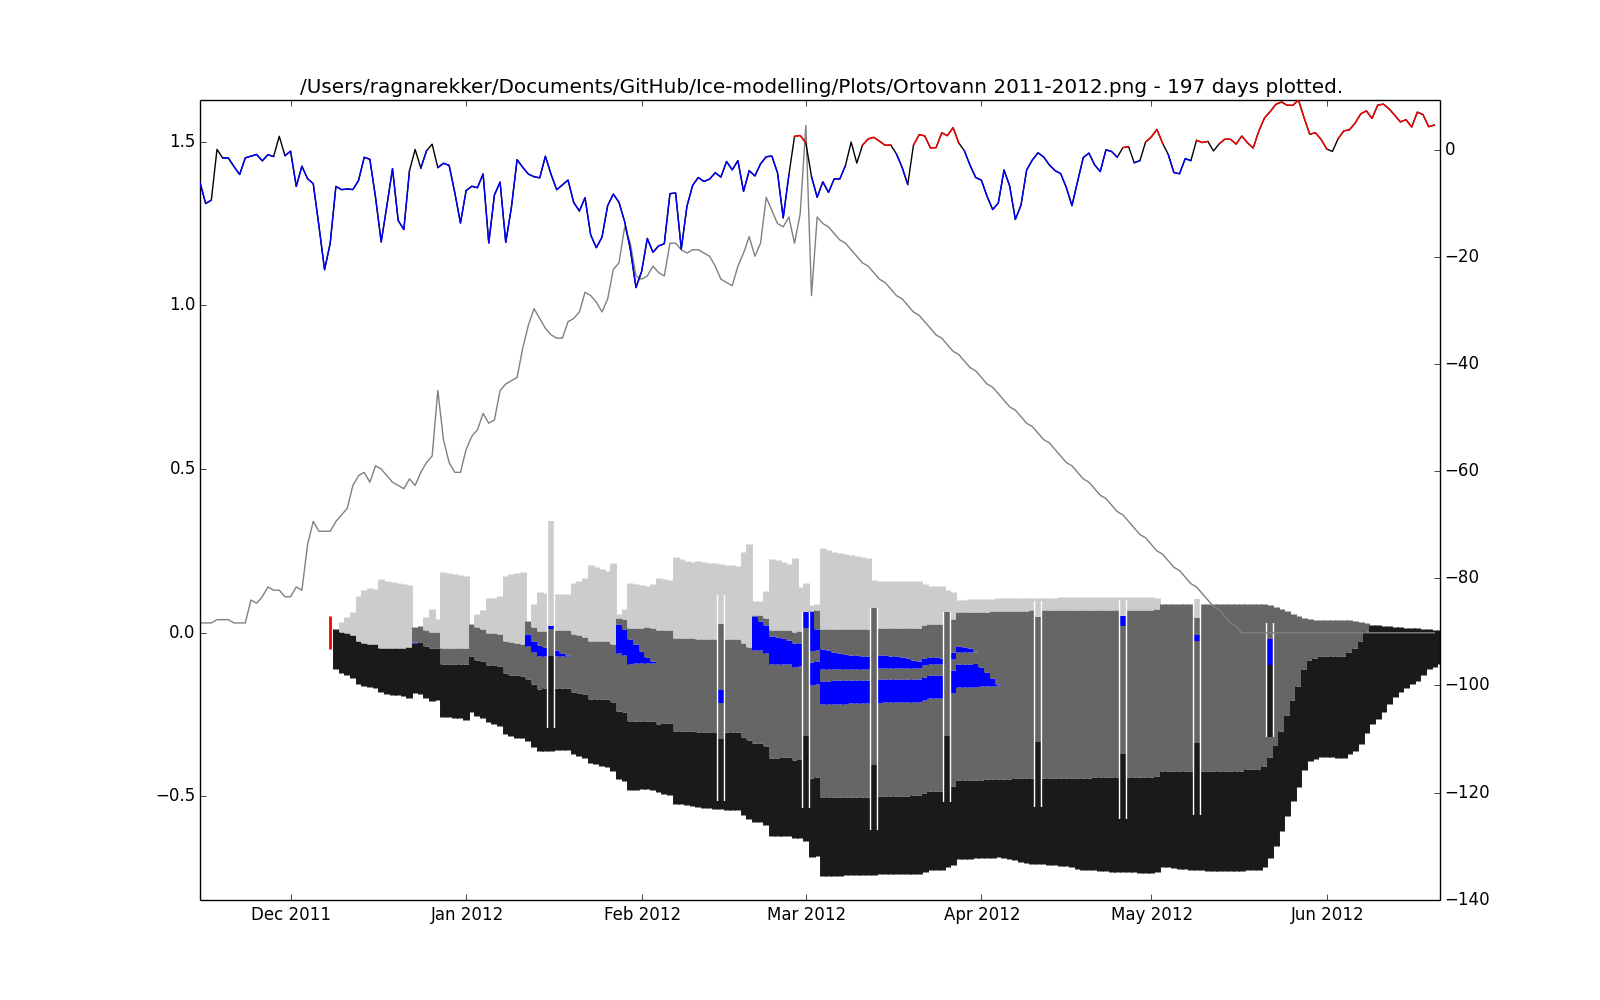
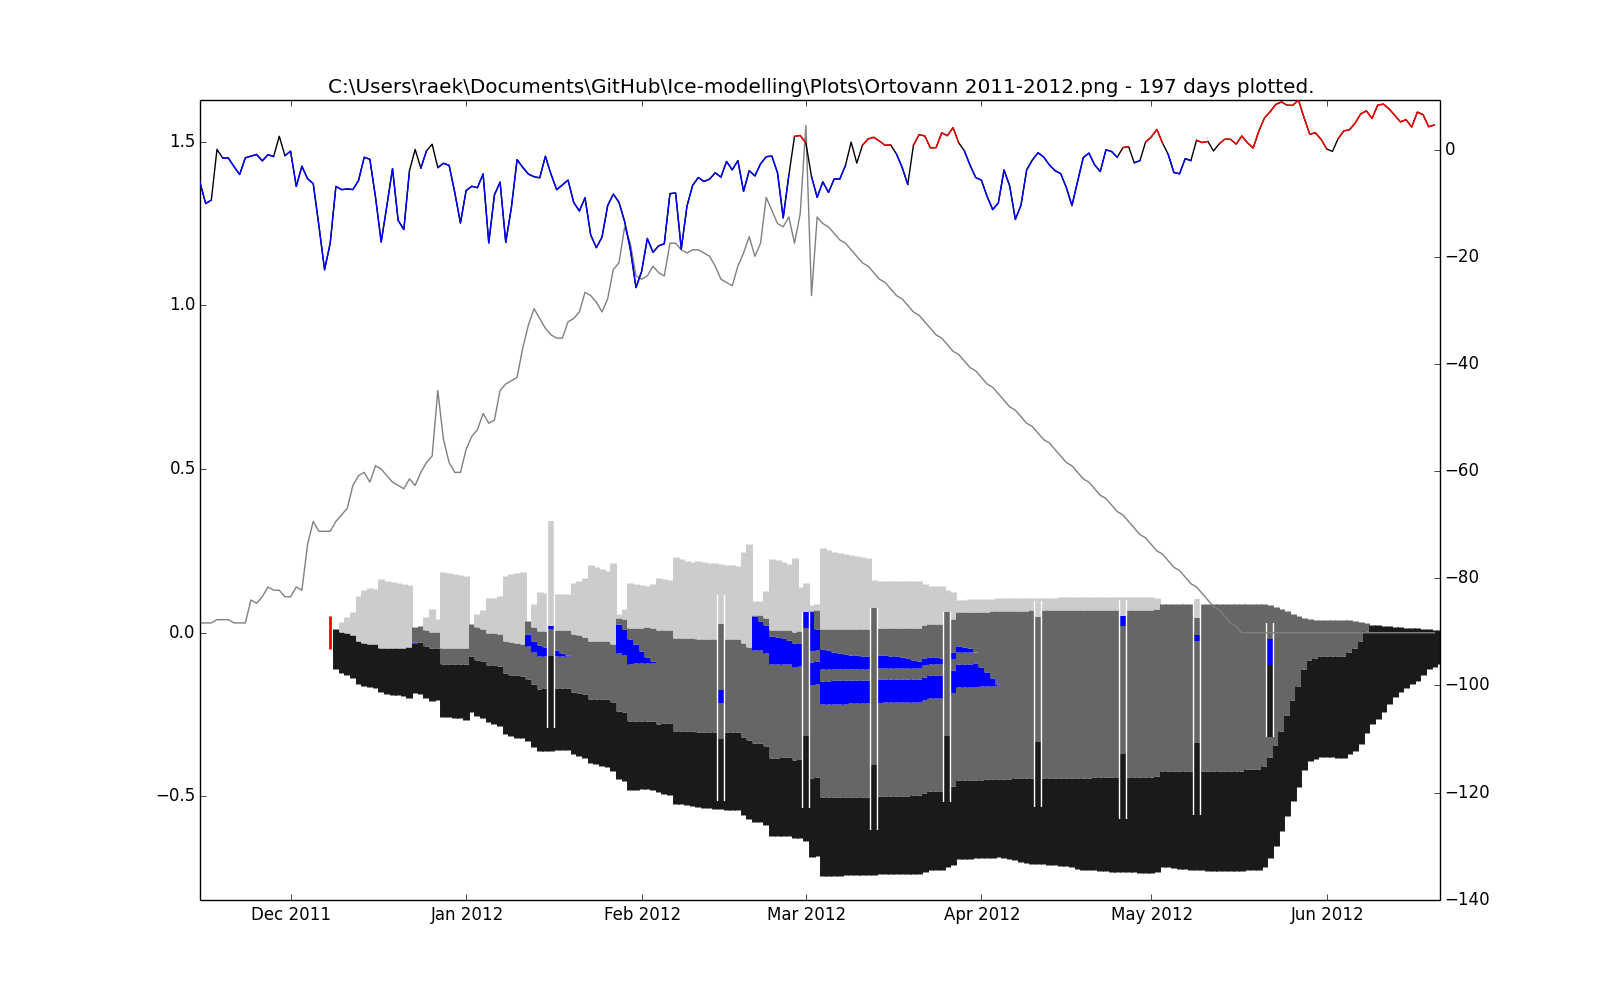
Testing files after major cleanup.

Changed region(s): [[0.1875, 0.062, 0.8438, 0.093]]

diff --git a/runIceThicknessCalc.py b/runIceThicknessCalc.py
@@ -8,11 +8,11 @@ import iceColumn
 import copy
 from TimeseriesIO import getMetData, readWeather, makeSnowChangeFromSnowTotal, plotIcecover, importColumns
 
-#plot_folder = "C:\\Users\\raek\\Documents\\GitHub\\Ice-modelling\\Plots\\"
-#data_path = "C:\\Users\\raek\\Documents\\GitHub\\Ice-modelling\\TimeseriesData\\"
+plot_folder = "C:\\Users\\raek\\Documents\\GitHub\\Ice-modelling\\Plots\\"
+data_path = "C:\\Users\\raek\\Documents\\GitHub\\Ice-modelling\\TimeseriesData\\"
 
-plot_folder = "/Users/ragnarekker/Documents/GitHub/Ice-modelling/Plots/"
-data_path = "/Users/ragnarekker/Documents/GitHub/Ice-modelling/TimeseriesData/"
+#plot_folder = "/Users/ragnarekker/Documents/GitHub/Ice-modelling/Plots/"
+#data_path = "/Users/ragnarekker/Documents/GitHub/Ice-modelling/TimeseriesData/"
 
 def calculateIceCover(inn_column, date, temp, sno):
 

diff --git a/runCloudMaker.py b/runCloudMaker.py
@@ -9,7 +9,8 @@ import copy
 import sqlite3 as db
 import datetime
 
-plot_folder = "/Users/ragnarekker/Documents/GitHub/Ice-modelling/Plots/"
+#plot_folder = "/Users/ragnarekker/Documents/GitHub/Ice-modelling/Plots/"
+plot_folder = "C:\\Users\\raek\\Documents\\GitHub\\Ice-modelling\\Plots\\"
 databaseLocation = '/Users/ragnarekker/Documents/GitHub/Ice-modelling/Databases/cloudMakingResults.sqlite'
 
 def __write2database(database, a, b, c, d, e, f, g, h, i, rms, date, stnr, period):
